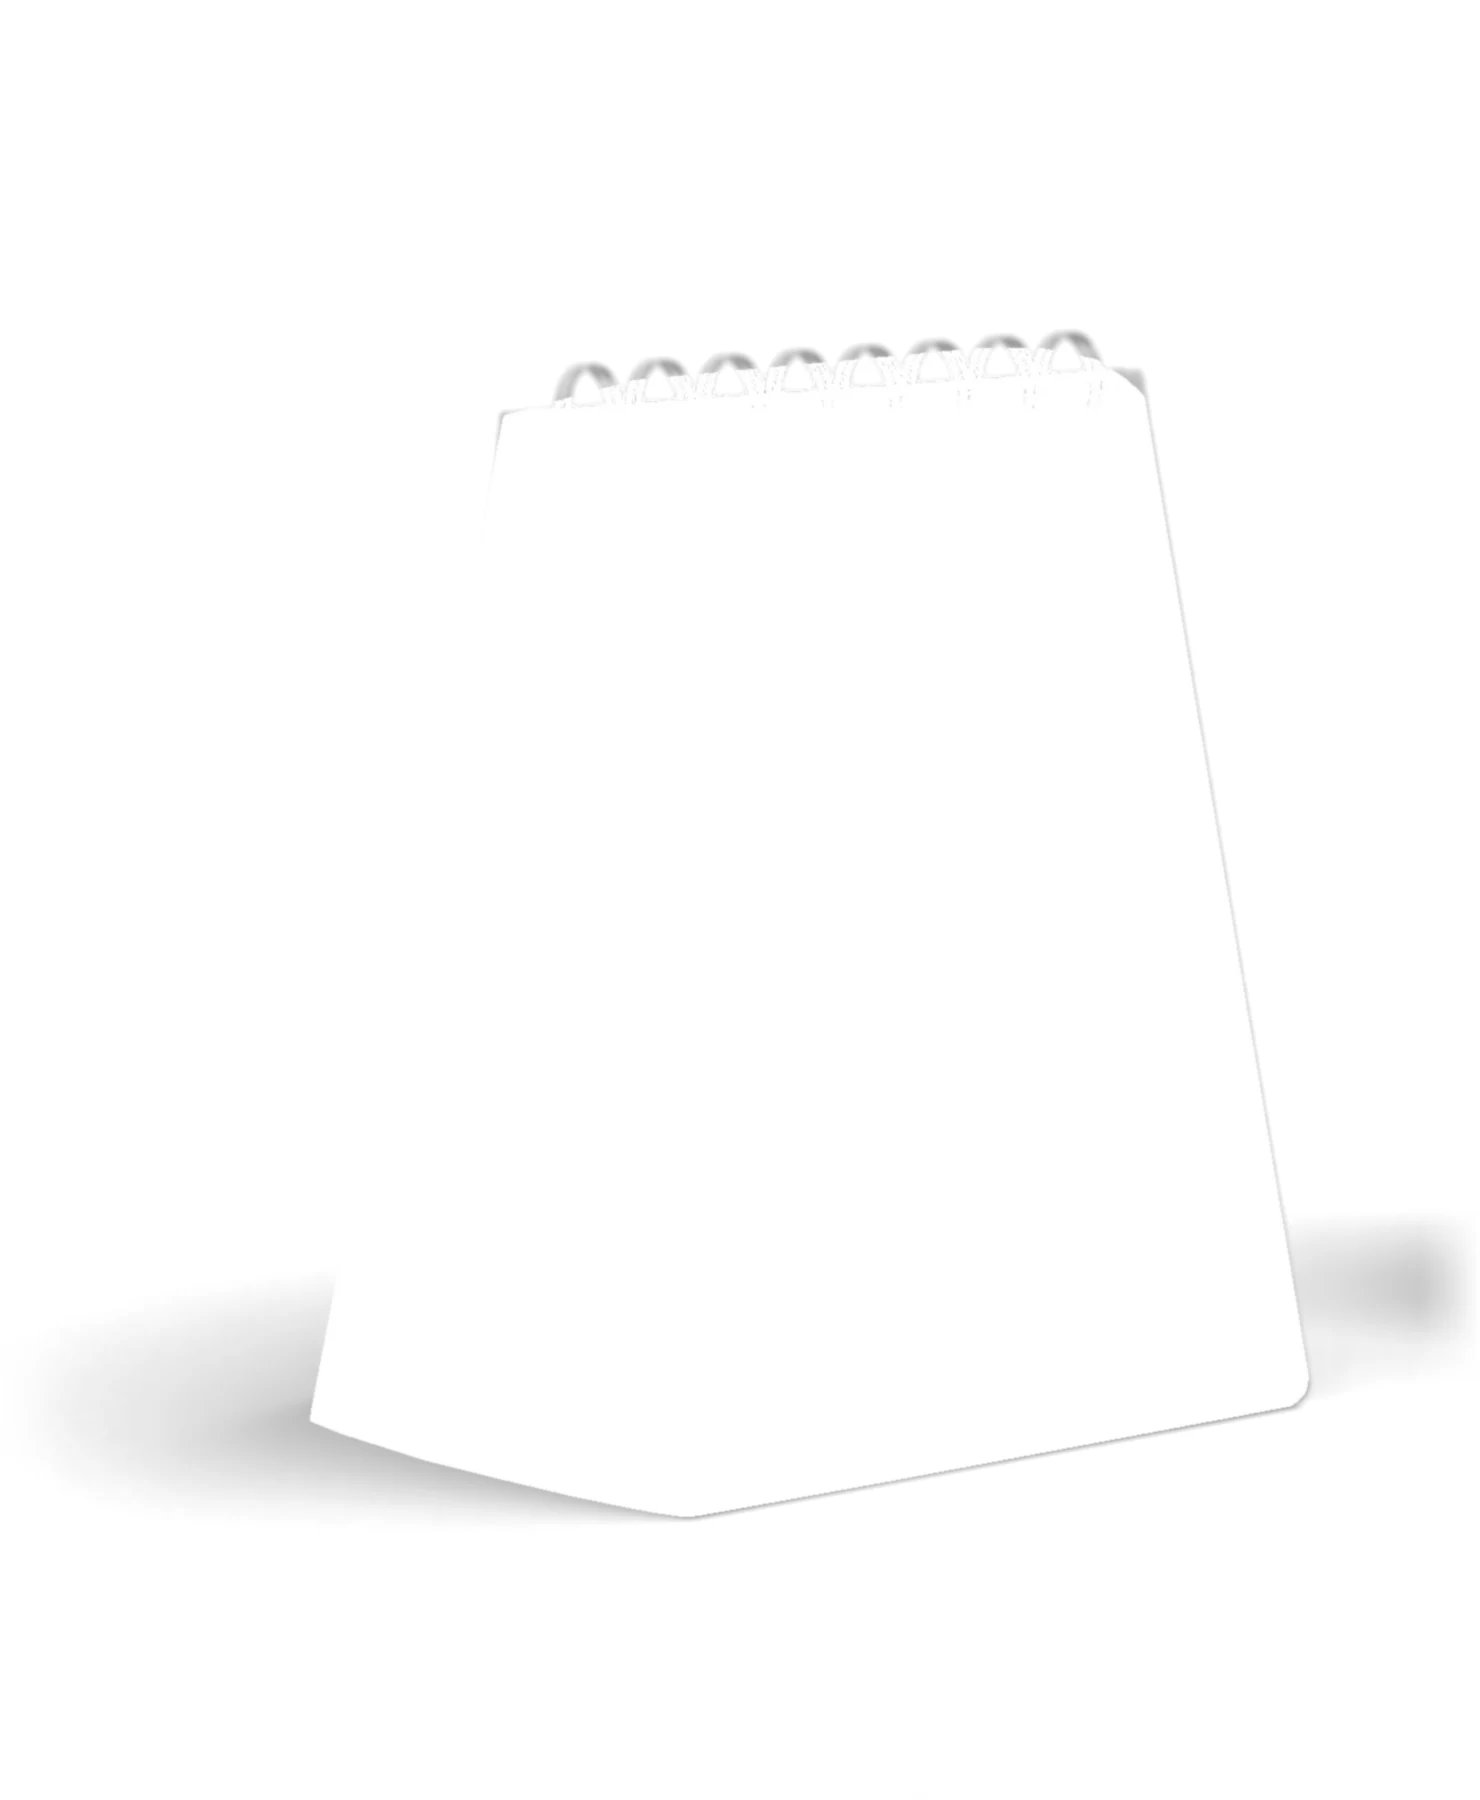
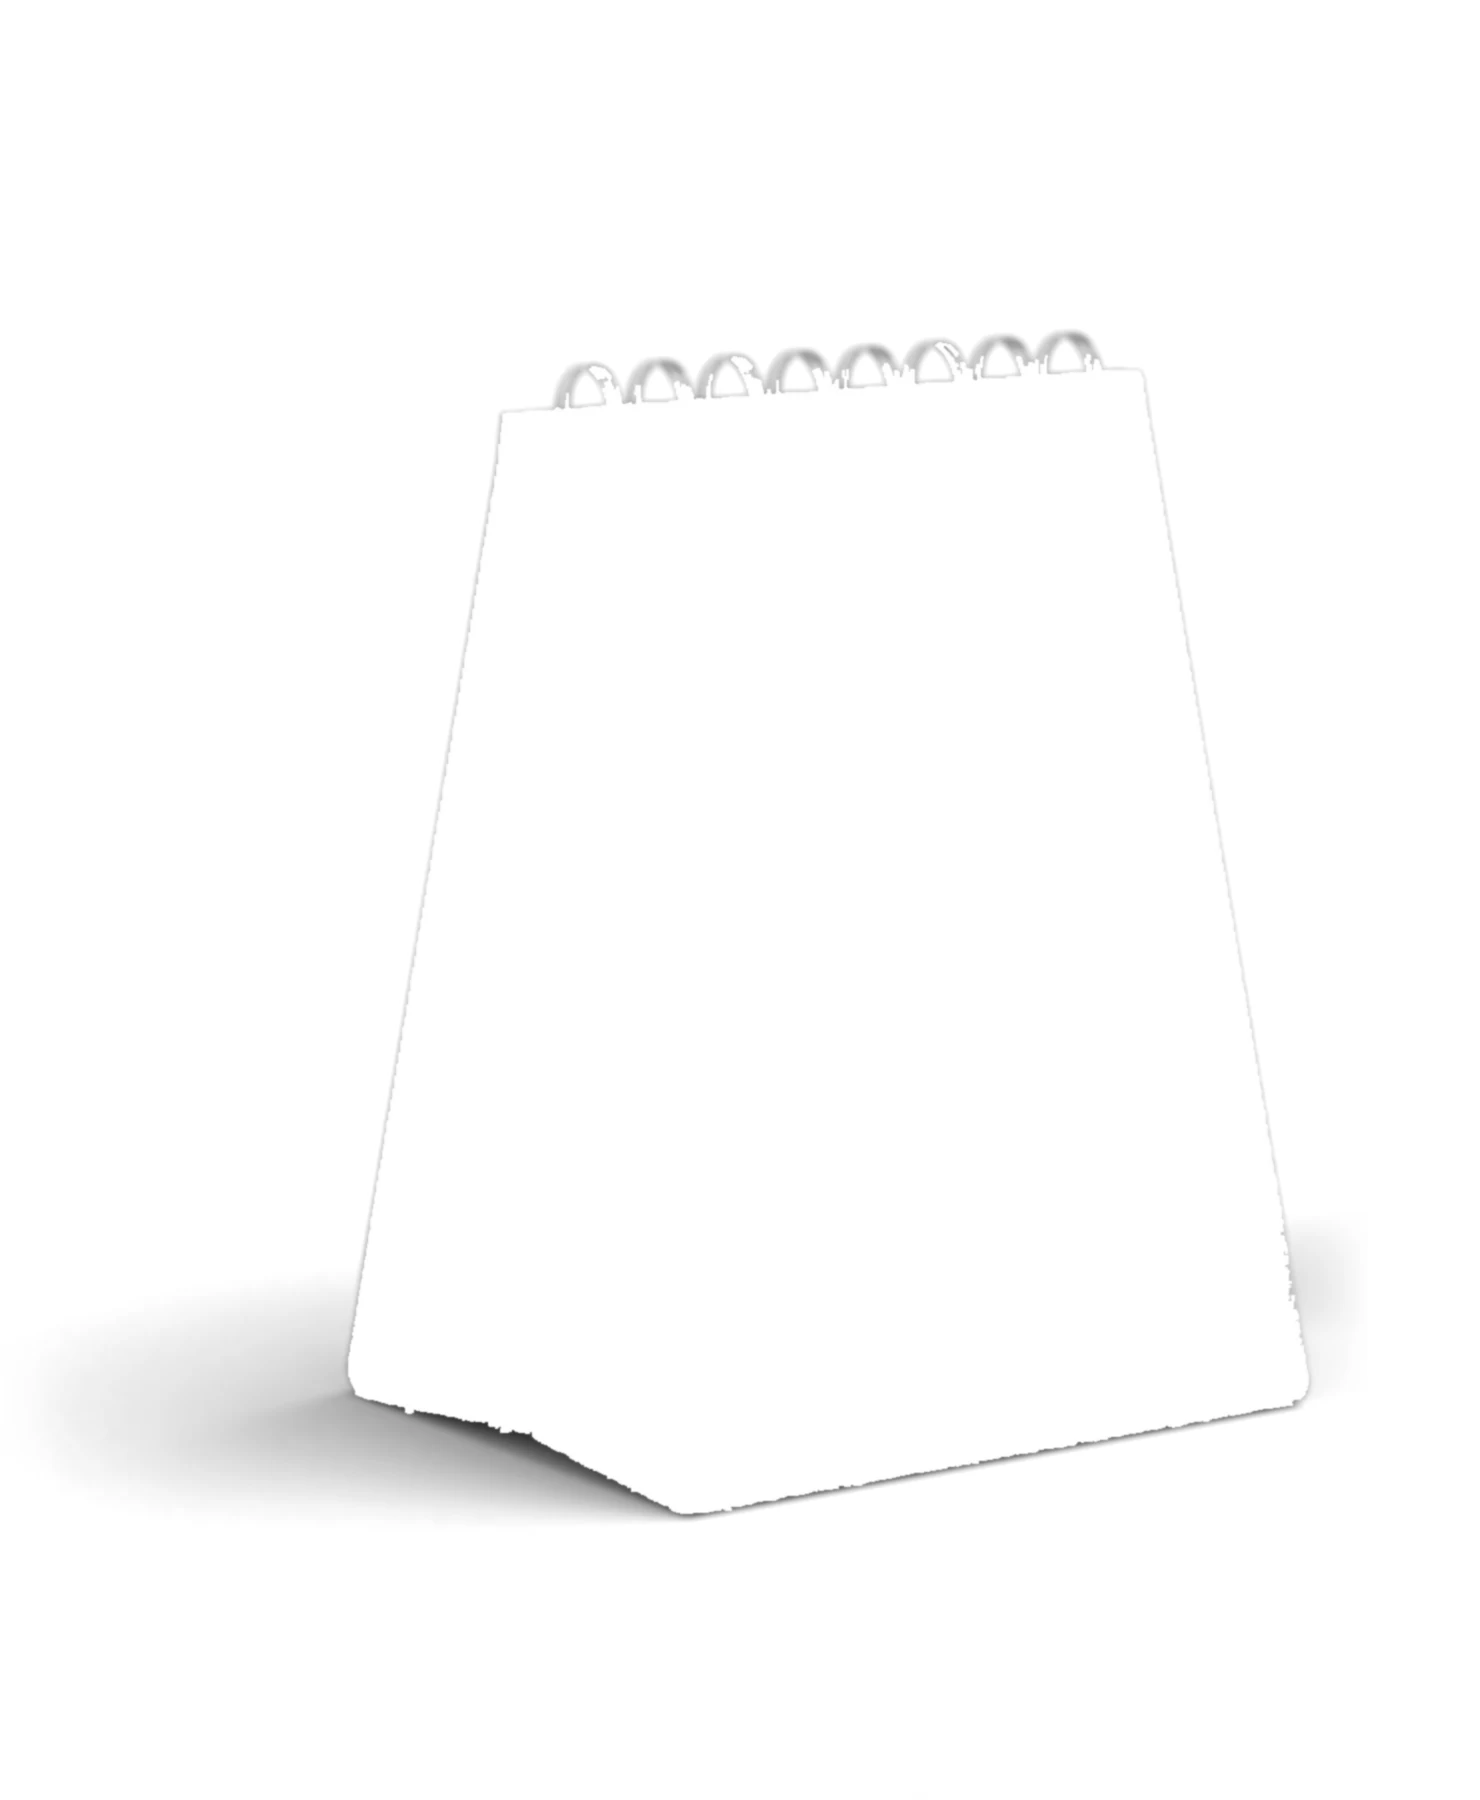
Bottles mockup: precise GrabCut cut-out (rings' gaps open, no backdrop sliver), cast shadow fades before the text
Claude-Session: https://claude.ai/code/session_011WuUMkvb8t9MEEabS5wD9n

diff --git a/tools/kraft-desk/layers.py b/tools/kraft-desk/layers.py
@@ -3,18 +3,24 @@
 #  object layer = the calendar and its stand only, cut out with a feathered edge.
 exec(open('shadow.py').read().split("over=(a/")[0])
 from PIL import ImageFilter
-hull=np.load('hull.npy'); hm=np.zeros((H,W),np.uint8); cv2.fillPoly(hm,[hull],255); hm=hm>0
-diff=np.abs(a-bg).max(2)
-alpha=hm.astype(np.float32)
-top=hull[:,0,1].min()+60
-ring=np.zeros((H,W),bool); ring[:top]=True
-alpha[ring]*=np.clip((diff[ring]-4)/10,0,1)          # between the coils the backdrop shows: let it through
+fg=np.load('fg.npy').astype(bool)
+ch=lambda x: x/np.maximum(x.sum(2,keepdims=True),1)
+cd=np.abs(ch(a)-ch(bg)).sum(2)
+low=np.zeros((H,W),bool); low[int(H*.68):]=True
+fg&=~(low&(cd<.035))                                   # a sliver of shadowed backdrop under the base: not the stand
+fg=ndimage.binary_opening(fg,np.ones((3,3))); lb,nl=ndimage.label(fg); fg=lb==(1+np.argmax(ndimage.sum(fg,lb,range(1,nl+1))))
+fg=ndimage.binary_fill_holes(fg)|(fg)
+fg=fg.astype(np.float32)          # the calendar and its stand, cut with GrabCut (rings' gaps let the page through)
+alpha=fg
 alpha=cv2.GaussianBlur(alpha,(0,0),.8)
 shadow=np.clip(a/np.maximum(bg,1),0,1)
 L_=cv2.GaussianBlur(shadow.mean(2),(0,0),3)                  # shadows are soft: take the photo's grain out of them
 L_=np.clip((L_-.955)/(1-.955),0,1)*(1-L_)*0+np.where(L_>.975,1.0,np.where(L_<.93,L_,.93+(L_-.93)*(1-.93)/(.975-.93)))
 shadow=np.repeat(L_[...,None],3,2).astype(np.float32)
-shadow=shadow*(1-alpha[...,None])+alpha[...,None]     # under the object: white (the object covers it)
+shadow=shadow*(1-alpha[...,None])+alpha[...,None]
+xr=np.nonzero(fg.any(0))[0].max()                  # the cast shadow fades out a little past the stand's right side (text sits there)
+fade=np.clip(1-(np.arange(W)-xr+10)/70,0,1)[None,:,None]
+shadow=1-(1-shadow)*fade     # under the object: white (the object covers it)
 edge=np.ones((H,W),np.float32); m=60
 ramp=lambda n: np.clip(np.arange(n)/m,0,1)
 edge*=np.minimum(ramp(W),ramp(W)[::-1])[None,:]; edge*=np.minimum(ramp(H),ramp(H)[::-1])[:,None]

diff --git a/tools/kraft-desk/cut.py b/tools/kraft-desk/cut.py
@@ -1,0 +1,15 @@
+exec(open('shadow.py').read().split("over=(a/")[0])
+hull=np.load('hull.npy'); hm=np.zeros((H,W),np.uint8); cv2.fillPoly(hm,[hull],255)
+img=a.astype(np.uint8)[...,::-1].copy()
+gm=np.full((H,W),cv2.GC_BGD,np.uint8)
+gm[cv2.dilate(hm,np.ones((41,41)))>0]=cv2.GC_PR_BGD
+gm[hm>0]=cv2.GC_PR_FGD
+gm[cv2.erode(hm,np.ones((61,61)))>0]=cv2.GC_FGD
+bgm=np.zeros((1,65),np.float64); fgm=np.zeros((1,65),np.float64)
+cv2.grabCut(img,gm,None,bgm,fgm,6,cv2.GC_INIT_WITH_MASK)
+fg=((gm==cv2.GC_FGD)|(gm==cv2.GC_PR_FGD)).astype(np.uint8)
+fg=cv2.morphologyEx(fg,cv2.MORPH_OPEN,np.ones((3,3)));
+n,l,st,_=cv2.connectedComponentsWithStats(fg); fg=(l==1+np.argmax(st[1:,4])).astype(np.uint8)
+np.save('fg.npy',fg)
+vis=img.copy(); vis[fg==0]=(vis[fg==0]*.3+np.array([0,0,255])*.7).astype(np.uint8)
+cv2.imwrite('cutvis.jpg',cv2.resize(vis,(740,900)))
